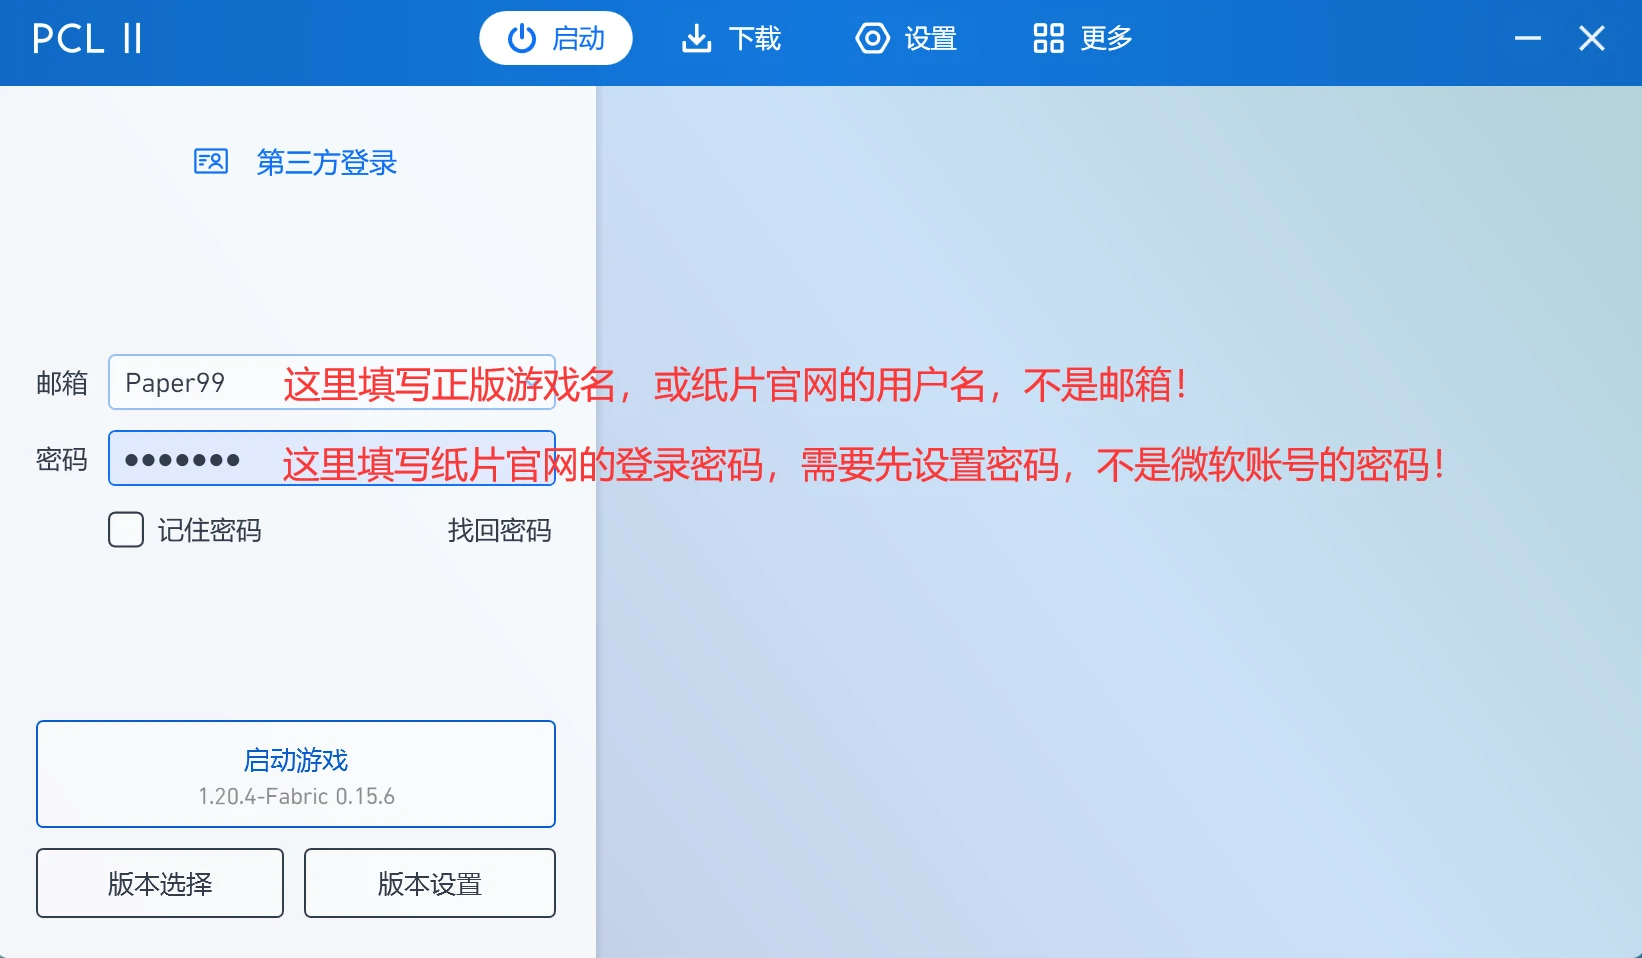
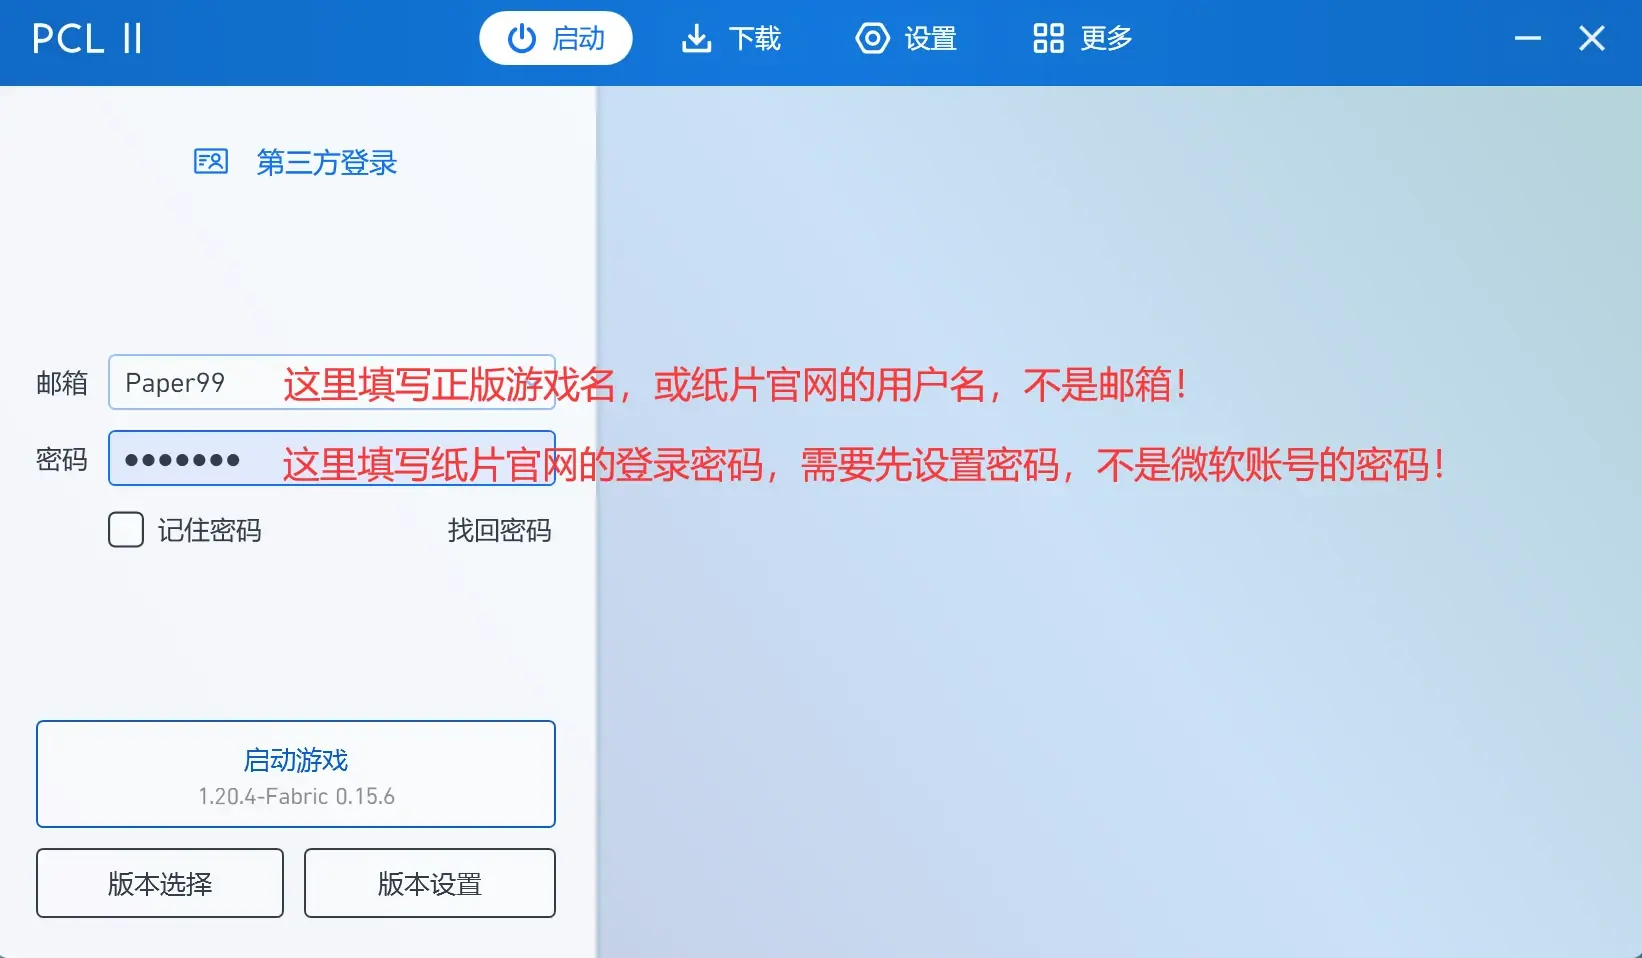
转换图片格式

Changed region(s): [[0.1553, 0.1514, 0.2485, 0.1816], [0.3106, 0.3935, 0.3417, 0.4238]]

diff --git a/docs/.vitepress/config.ts b/docs/.vitepress/config.ts
@@ -105,7 +105,6 @@ export default defineConfig({
             { text: '芋泥蛋糕', link: "/clubs/YNDG" },
             { text: '璃虹港', link: "/clubs/LHG" },
             { text: '约翰山庄', link: "/clubs/YHSZ" },
-            { text: '蘑菇岛', link: "/clubs/MGD" },
             { text: '小樱花山', link: "/clubs/XYHS" },
           ]
         },
@@ -118,6 +117,7 @@ export default defineConfig({
             { text: '漂流瓶', link: "/plugins/drift-bottle" },
             { text: '酿酒', link: "/plugins/brewing" },
             { text: '盔甲架自定义', link: "/plugins/armor-stand" },
+            { text: 'PaperPVP', link: "/plugins/paper-pvp" },
           ]
         },
 

diff --git a/docs/plugins/brewing.md b/docs/plugins/brewing.md
@@ -5,31 +5,31 @@
  1. 将**炼药锅**放在火源或其他热源上，装满水 
  2. 右键**单击**添加原料
  3. 等待原料发酵几分钟，时间到后用玻璃瓶装起来
-![](./picture/brewing1.png)
+![](./picture/brewing1.webp)
 *小提示：如果你想知道发酵的时间，请手持“**时钟**”右键大锅查看* 
 ## 蒸馏
 有一些酒制作时不需要蒸馏步骤
  1. 将带有发酵物的玻璃瓶放入酿造台中
  2. 将**萤石粉**作为催化剂放到最上面（蒸馏时不会消耗萤石粉）
-![](./picture/brewing2.png)
+![](./picture/brewing2.webp)
 ## 陈酿
 陈酿化酒需要一个桶，可以很小，也可以很大！
 
 #### 迷你桶（木桶）和小桶
 使用 8 个木制楼梯来构建小桶形形状。
 在右下角放置一个标牌，并在上面的行中写上 “Barrel”
-![](./picture/brewing3.png)
+![](./picture/brewing3.webp)
 *小提示：创造成功后会提示“木桶已创造”，大桶同理*
 #### 大桶
 使用 5 个栅栏，16 个木制楼梯和 18 个木板来构建桶形形状，别忘了在桶前面装好水龙头（栅栏）和一个写有“Barrel”的告示牌。
-![](./picture/brewing5.png)
+![](./picture/brewing5.webp)
  - 右击打开桶，将酒放入桶中静置。
  - 把饮品放进桶里就能贮存。
  - 每经过一个 **MC日**，饮品就会贮存**一年**。
  - 根据配方的不同，用于建造桶的木材类型可能会改变陈酿的质量。
  - 原版桶**始终判定**为橡木桶。
 
-桶不应该在静置时被破坏，因为这会泄漏里面的美酒 :(！！由于服务器不知名原因，请在服务器每次重启时拿出你的酒，不然会导致消失！！
+桶不应该在静置时被破坏，因为这会泄漏里面的美酒 :！！由于服务器不知名原因，请在服务器每次重启时拿出你的酒，不然会导致消失！！
 > 干杯！！！🍻 经过了重重工序，你终于能喝上美酒啦。酒内的酒精会在饮用时被激发，根据它的含量，这将有不同的效果。畅饮后希望你还能找到回家的路
 ## 密封
 你可以把你酿造的饮品提供给其他玩家，他们可以放进桶里继续贮存。但玩家商店要求出售的物品必须完全相同，由此需要用打包密封的方式来解决。想象一下，就和用封条把酒封起来一样。
@@ -37,7 +37,7 @@
   - 密封桌需要 2 个瓶子和 4 个木板
   - 把饮品放入，就能使它们的属性均等
   - 密封的饮品不能继续贮存或进一步加工，也不能显示详细信息
-![](./picture/brewing6.png)
+![](./picture/brewing6.webp)
 ## 附录：配方
 服务器配方有所不同，以下是来自服务器玩家的摸索所得出的配方
 | 配方       | 原料                     | 发酵时间 | 蒸馏 | 陈置/木种    |

diff --git a/docs/join.md b/docs/join.md
@@ -1,14 +1,14 @@
 # 如何加入🎯
 ## 1. 正版账号
 要加入服务器，您需要一个Minecraft正版账号，因为我们是正版服务器，离线（盗版）玩家无法加入服务器 
-![](/picture/mc.jpg)
+![](/picture/mc.webp)
 如果您没有正版账号，可以去这里购买：[点此前往](https://www.xbox.com/zh-CN/games/store/minecraft-java-bedrock-edition-for-pc/9NXP44L49SHJ/0010)
 
 ## 2. 游戏客户端与Java
 - **启动器**： 
 您可以使用Minecraft官方启动器安装游戏，但我们更推荐使用第三方启动器， 如：[HMCL](https://hmcl.huangyuhui.net/)、[PCL2](https://afdian.net/a/LTCat?tab=home)
-![hmcl](/picture/hmcl.png)
-![pcl2](/picture/pcl2.png)
+![hmcl](/picture/hmcl.webp)
+![pcl2](/picture/pcl2.webp)
 - **整合包**：
 推荐使用QQ交流群里的整合包
 - **Java**：
@@ -16,30 +16,30 @@
 
 ## 3. 服务器地址
 服务器地址为：`mc.paper-card.cn`，您需要在多人游戏中添加服务器。
-![](/picture/join.png)
+![](/picture/join.webp)
 
 ## 4. 获取白名单(B站账号绑定)
 ### ① 登录官网
 - 第一次连接服务器（未绑定）时，会给出类似下图的提示信息（登录验证码）。
-![](/picture/bmd1.png)
+![](/picture/bmd1.webp)
 - 复制当前的**验证码**前往PaperCard官网的[登陆页面](https://paper-card.cn/login?redirect=/space)，进行人机验证并登录。
-![](/picture/login1.png)
+![](/picture/login1.webp)
 > [!warning]注意
 > 由于网络环境的不同，安全验证有可能会失败，请尝试使用**微软登录**。  
 ### ②白名单申请
 - 成功登录到官网后，点击官网右上角的白名单。
-![](/picture/login2.png)
+![](/picture/login2.webp)
 - 此时跳转到申请页面，你可以从两种方式中任选其一。
-![](/picture/login3.png)
+![](/picture/login3.webp)
 - 当这样显示时，代表你可以正常进入服务器啦🎉
-![](/picture/login4.png)
+![](/picture/login4.webp)
 
 ## 5. 绑定QQ
 - 在进入服务器时可在聊天窗口点击**点击绑定QQ**或输入指令`/qq-bing code`
-![](/picture/qqbind.png)
+![](/picture/qqbind.webp)
 - 然后将获取到的验证码发送到QQ群
-![](/picture/qqbind2.png)
+![](/picture/qqbind2.webp)
 
 ## 6. 大功告成
 **可以开始你的冒险啦~**
-![](/picture/2024-05-04_21.54.39.png)
+![](/picture/2024-05-04_21.54.39.webp)

diff --git a/docs/problem.md b/docs/problem.md
@@ -2,43 +2,43 @@
 
 ## 无法连接到服务器
 可尝试更换DNS，按下图进行更换
-![](/picture/dns1.png)
-![](/picture/dns2.png)
-![](/picture/dns3.png)
-![](/picture/dns4.png)
+![](/picture/dns1.webp)
+![](/picture/dns2.webp)
+![](/picture/dns3.webp)
+![](/picture/dns4.webp)
 
 ## 怎么绑定QQ
 进入服务器时可在聊天窗口点击**点击绑定QQ**或输入指令`/qq-bing code`
-![](/picture/qqbind.png)
+![](/picture/qqbind.webp)
 然后将获取到的验证码发送到QQ群
-![](/picture/qqbind2.png)
+![](/picture/qqbind2.webp)
 
 ## 怎么签到
 1. 游戏内在线10分钟即可自动签到并获得4电池。
 2. 在手机QQ中打开群聊,点击右下角的＋号，然后点击打卡即可获得1电池。
-![](/picture/daka.png)
+![](/picture/daka.webp)
 
 ## 刷线机怎么用不了
 【超简单！纯净服也能用！针对1.18+paper/spigot服务器设计的闭环控制抗区块卸载的自动刷线机-哔哩哔哩】 https://b23.tv/TF5U9VV
 
 ## 换皮肤和披风
 在微软我的世界[档案页面](https://www.minecraft.net/zh-hans/msaprofile/mygames)在下图位置进行更换
-![](/picture/skin1.png)
+![](/picture/skin1.webp)
 *推荐皮肤站 [littleskin](https://littleskin.cn/)*
 
 ## 换了皮肤(披风)为什么不显示
 可以尝试在游戏内输入指令`/skin updata`来刷新皮肤(披风)。  
-![](/picture/skinupdata.png)
+![](/picture/skinupdata.webp)
 或通过使用[纸片正版登录](papercardlogin)快速刷新。
 
 ## 游戏内怎么输入不了中文
 请下载[输入法冲突修复](https://www.mcmod.cn/class/3358.html)模组(群内整合包已内置)。
-![](/picture/srfxf.png)
+![](/picture/srfxf.webp)
 
 ## 怎么改中文名
 中文名需使用[纸片正版登录](/papercardlogin)  
 配置好后在纸片官网的[个人空间](https://paper-card.cn/space)页面在下图处修改
-![](/picture/zhname.png)
+![](/picture/zhname.webp)
 
 ## 视频三连奖励领取
 1. 请先在QQ群公告查看活动是否在时效内
@@ -52,5 +52,5 @@
 游戏内聊天窗输入`/spawn 主城`
 
 ## 绑定爱发电
-游戏内聊天窗输入`/afdian`![](/picture/afdian.png)
+游戏内聊天窗输入`/afdian`![](/picture/afdian.webp)
 根据指引进行绑定。

diff --git a/docs/zanzhu.md b/docs/zanzhu.md
@@ -25,24 +25,24 @@
 - 只有首次发电需要进行绑定，后续发电请随意~
 ### 自助绑定方法
 1. 在游戏内使用指令/afdian code，然后会有提示信息：
-![](/picture/afd1.png)
+![](/picture/afd1.webp)
 然后点击复制验证码，再点击打开那个链接。  
 > [!TIP]注意
 >验证码的有效时间是10分钟内，请尽快地完成所有步骤。  
 > **出现任何问题或有任何疑问请通过QQ联系腐竹**
 2. 打开链接后点击“**发电**”
-![](/picture/afd2.png)
-![](/picture/afd3.png)
+![](/picture/afd2.webp)
+![](/picture/afd3.webp)
 3. 将复制的绑定验证码粘贴上去，然后进行支付~
-![](/picture/afd4.png)
+![](/picture/afd4.webp)
 4. 回到游戏使用指令`/afdian sync-latest`来手动进行爱发电同步（PS：服务器每隔一段时间也会进行自动同步）
-![](/picture/afd5.png)
+![](/picture/afd5.webp)
 首次绑定赠送**50电池**哦~
 ### 人工绑定方法
 如果你实在不会自助绑定，你也可以准备好一些东西联系腐竹人工添加绑定~  
 你需要打开这个链接：https://afdian.net/dashboard/dev  
 登录您的爱发电账号，然后将类似的截图发送给腐竹即可~
-![](/picture/afd6.png)
+![](/picture/afd6.webp)
 > [!TIP] 其它相关：  
 > 可以使用`/sponsorship latest`指令查看服务器的最近赞助  
 > 可以使用`/coins detail`指令来查看你的电池明细（验证是否自动赠送了电池）
@@ -50,12 +50,12 @@
 ## 微信
 ### 微信扫一扫
 **记得备注ID哦~**
-![](/picture/wx.png)
+![](/picture/wx.webp)
 
 ## 支付宝
 ### 支付宝扫一扫
 **记得备注ID哦~**
-![](/picture/zfb.png)
+![](/picture/zfb.webp)
 
 ## 赞助管理系统相关指令
 - `/sponsorship latest` 查看最近赞助记录，按时间顺序  

diff --git a/docs/clubs/LWS.md b/docs/clubs/LWS.md
@@ -18,22 +18,22 @@
 
  - 同时，通过建筑、生电、小游戏等大大小小的有影响力的项目，**莱文市正致力于建设一个富有活力，具有无限想象力的完美社团**。
 
-![四周年新年烟花会](./picture/LWS2.png)
+![四周年新年烟花会](./picture/LWS2.webp)
 
  ## 二、目前成果展示
  - 在过去的两个周目里，莱文市成员们集思广益，创造了许多极具美感的建筑作品和效率爆炸的生电作品。其中许多建筑的都被广泛的应用在宣传视频当中。
 
-![](./picture/LWS3.png)
+![](./picture/LWS3.webp)
 
-![](./picture/LWS4.png)
+![](./picture/LWS4.webp)
 
-![](./picture/LWS5.png)
+![](./picture/LWS5.webp)
 
-![](./picture/LWS6.png)
+![](./picture/LWS6.webp)
 
  - 社团成员不仅通过游戏学习了建筑知识、历史文化、生电编程，更通过参与项目提升了团队合作与项目管理能力。
 
-![佛前悟道](./picture/LWS7.png)
+![佛前悟道](./picture/LWS7.webp)
 
  ## 三、莱文市小知识
  - ``/spawn 莱文市 ``或者``/spawn 莱文市黎明区``均为莱文市传送点
@@ -53,7 +53,7 @@
 
 ## 五、加入莱文市审核群
 
-![审核QQ群：346059704](./picture/LWS8.jpg)
+![审核QQ群：346059704](./picture/LWS8.webp)
 
 > #### <span style="display:block;text-align:left;color:red;">***在莱文市中，世界就在你脚下***</span>   
 > #### <span style="display:block;text-align:left;color:red;">***无需踌躇，无需回首，无需唏嘘，目之所至，皆为前路***</span>  

diff --git a/docs/plugins/drift-bottle.md b/docs/plugins/drift-bottle.md
@@ -3,29 +3,29 @@
 ## 制作漂流瓶
 
 先合成**书与笔**，配方如下：
-![](/plugins/picture/bottle1.png)
+![](/plugins/picture/bottle1.webp)
 
 再合成**玻璃瓶**，配方如下：
-![](/plugins/picture/bottle2.png)
+![](/plugins/picture/bottle2.webp)
 
 将书与笔拿在手上，右键打开可以**输入内容**，里面写漂流瓶的内容，写完后点击“**署名**”：
-![](/plugins/picture/bottle3.png)
+![](/plugins/picture/bottle3.webp)
 
 书名可以随便输入，然后点击“**署名并关闭**”：
-![](/plugins/picture/bottle4.png)
+![](/plugins/picture/bottle4.webp)
 
 **打开背包，将成书放到玻璃瓶上面即可制作漂流瓶：**
-![](/plugins/picture/bottle5.png)
+![](/plugins/picture/bottle5.webp)
 
 ## 扔出漂流瓶
 
 **将漂流瓶拿在手里，按Q键扔到水里，即可成为真正的漂流瓶：**
-![](/plugins/picture/bottle6.png)
+![](/plugins/picture/bottle6.webp)
 
 ## 捞起漂流瓶
 玩家钓到鱼或其它物品时，有**一定概率（默认10%）**钓到一个**随机**漂流瓶。
 将瓶子拿在手上右键可以查看内容，也可以扔回水里：
-![](/plugins/picture/bottle7.png)
+![](/plugins/picture/bottle7.webp)
 
 ## 冷却时间与概率
 - 漂流瓶制作冷却：每人每10分钟至多可以制作一个漂流瓶（默认配置）。

diff --git a/docs/plugins/armor-stand.md b/docs/plugins/armor-stand.md
@@ -4,19 +4,19 @@
 
 1. 把**编辑工具**握在主手里(默认是燧石)
 
-![](./picture/KJJ1.png)
+![](./picture/KJJ1.webp)
 
 2. **左/右键点击**(非装甲架)打开菜单
 
-![](./picture/KJJ2.png)
+![](./picture/KJJ2.webp)
 
 3. 选择**已标记的**菜单选项
 
-![](./picture/KJJ3.png)
+![](./picture/KJJ3.webp)
 
 4. **左/右点击盔甲站与工具在手应用这些选项**
 
-![](./picture/KJJ4.png)
+![](./picture/KJJ4.webp)
 
 ### 提示
 

diff --git a/docs/papercardlogin.md b/docs/papercardlogin.md
@@ -17,10 +17,10 @@
 ## 如何更换回微软正版登录
 ### PCL2请按照下图操作
 
-![](/picture/pcllogin1.png)
-![](/picture/pcllogin2.png)
+![](/picture/pcllogin1.webp)
+![](/picture/pcllogin2.webp)
 
 ### HMCL请按照下图操作
 
-![](/picture/hmcllogin1.png)
-![](/picture/hmcllohin2.png)
+![](/picture/hmcllogin1.webp)
+![](/picture/hmcllohin2.webp)

diff --git a/docs/clubs/index.md b/docs/clubs/index.md
@@ -6,5 +6,4 @@
 ## [芋泥蛋糕](./YNDG)
 ## [璃虹港](./LHG)
 ## [约翰山庄](./YHSZ)
-## [蘑菇岛](./MGD)
 ## [小樱花山](./XYHS)

diff --git a/docs/clubs/YHSZ.md b/docs/clubs/YHSZ.md
@@ -1,2 +1,2 @@
 # 约翰山庄
- ![](/clubs/picture/YHSZ.png)
+ ![](/clubs/picture/YHSZ.webp)

diff --git a/docs/clubs/XYHS.md b/docs/clubs/XYHS.md
@@ -1,2 +1,2 @@
 # 小樱花山
-![](/clubs/picture/XYHS.jpg)
+![](/clubs/picture/XYHS.webp)
